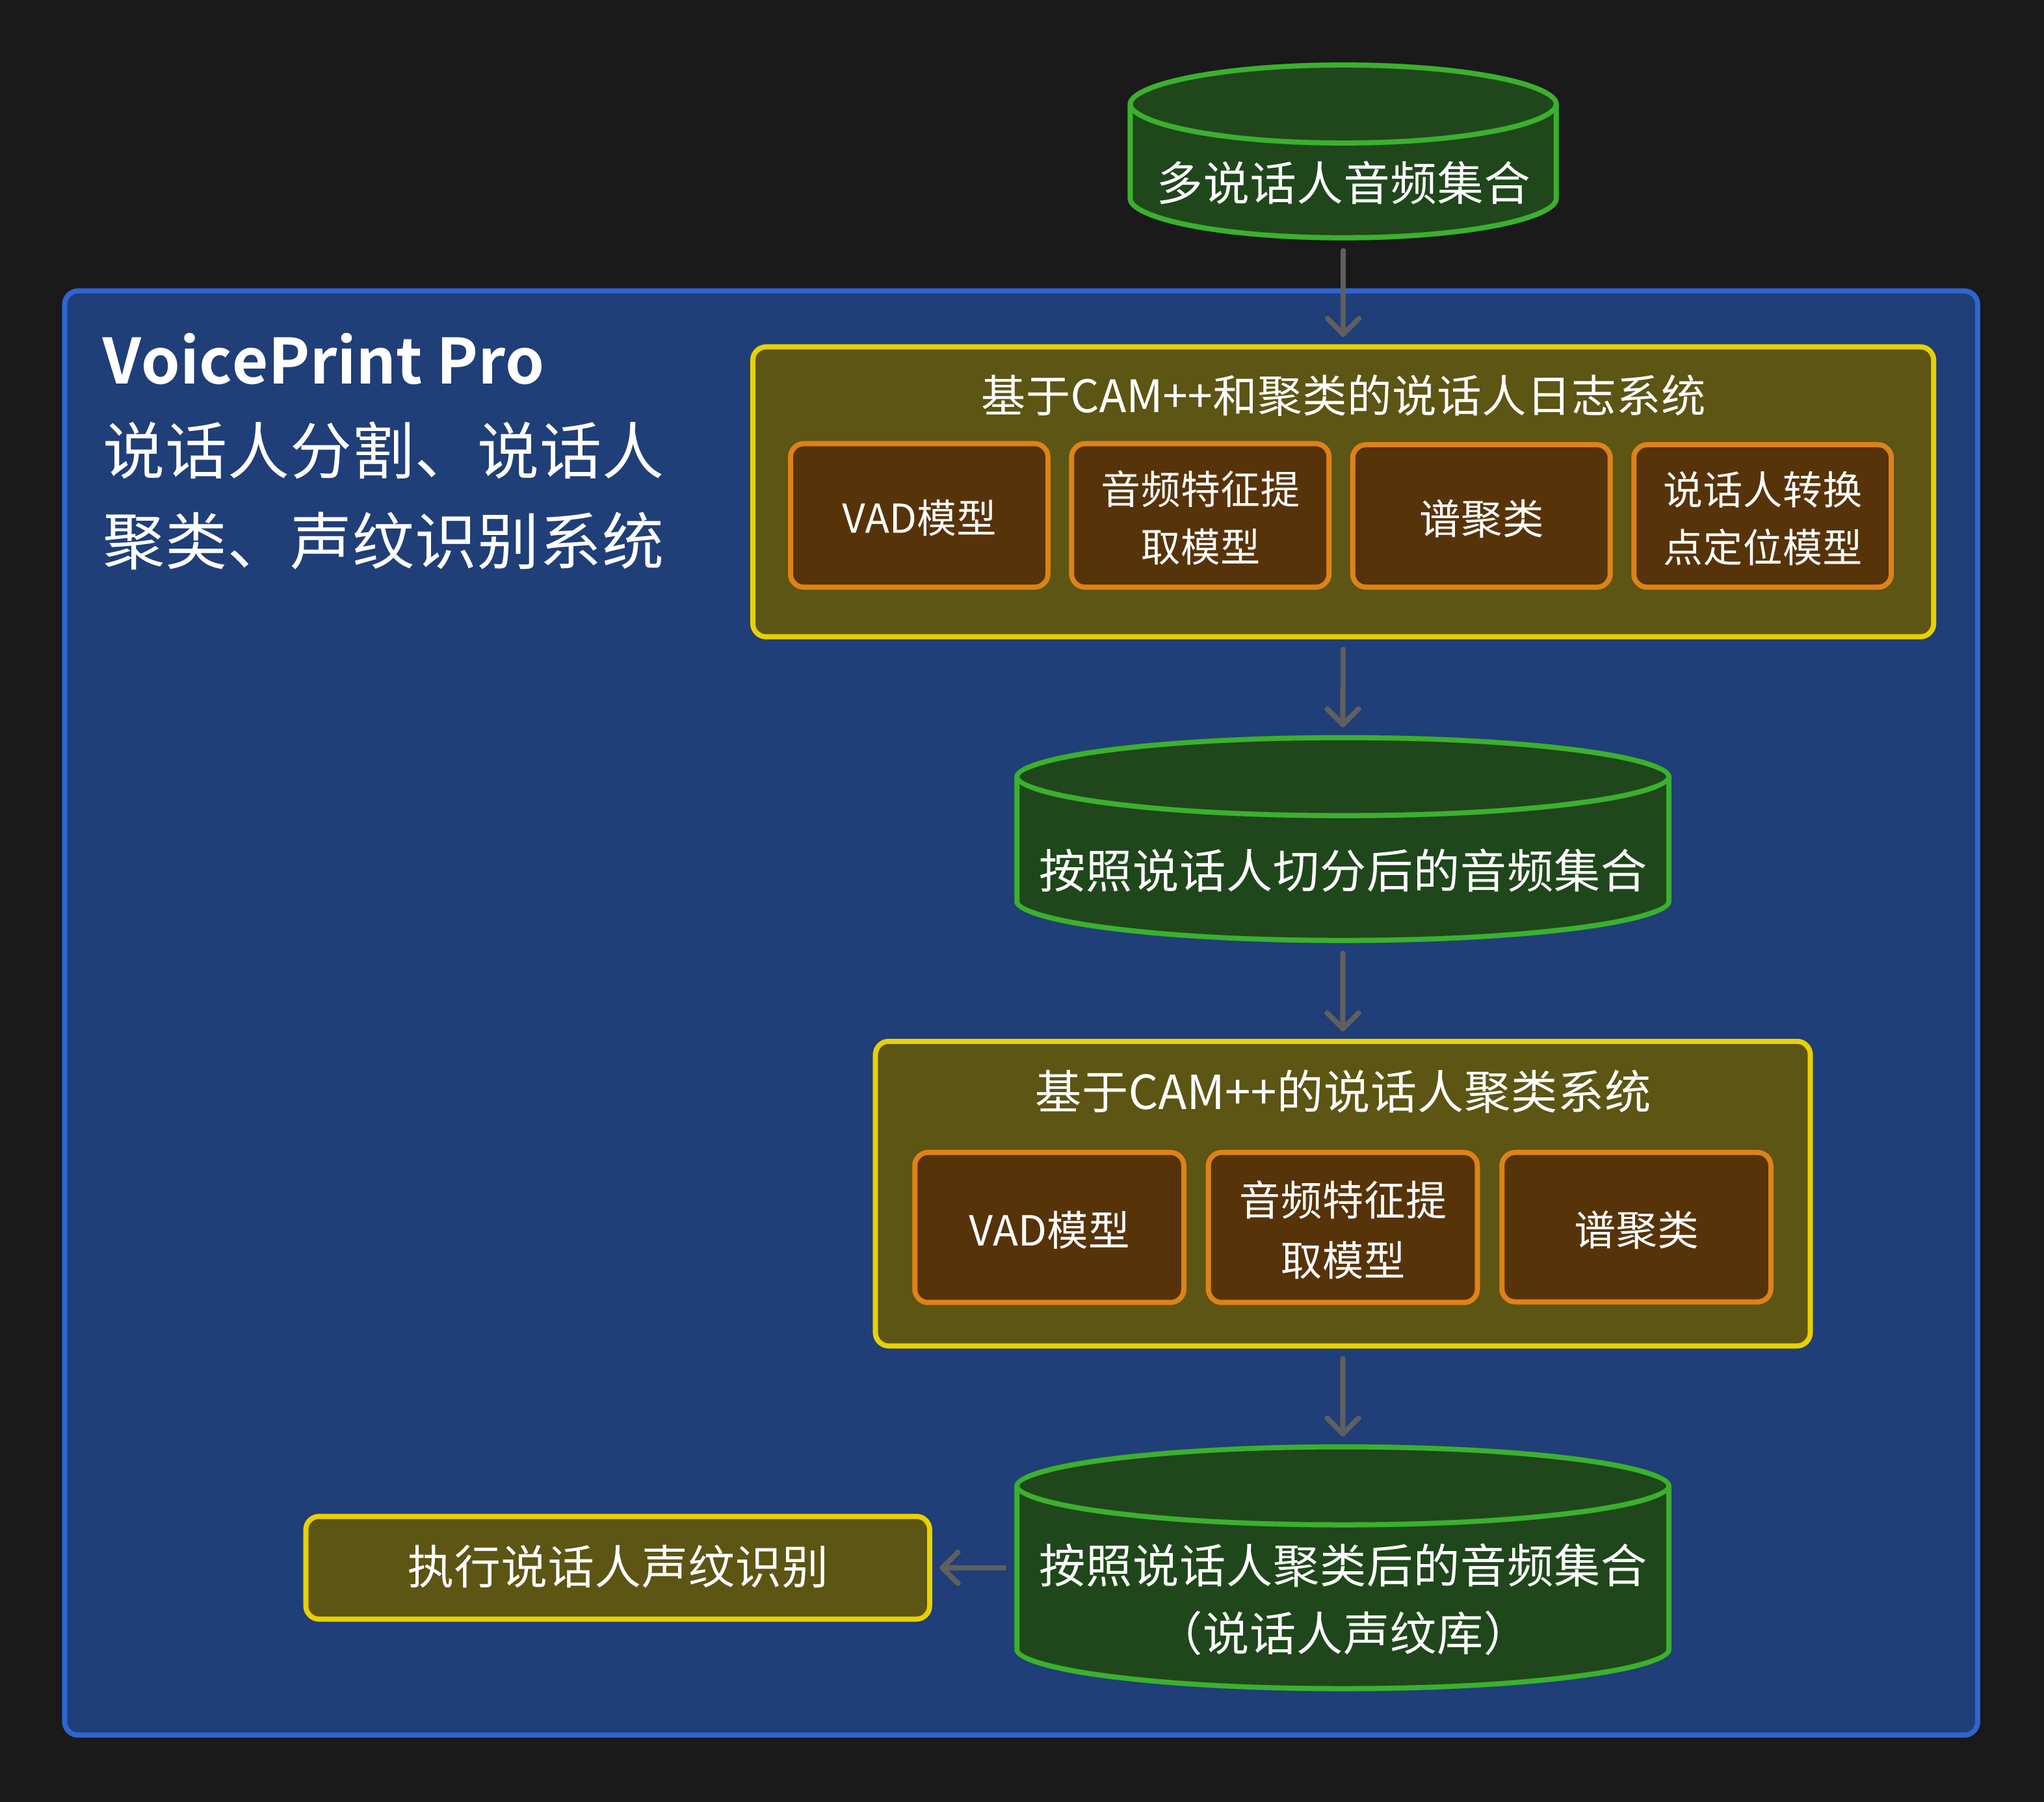
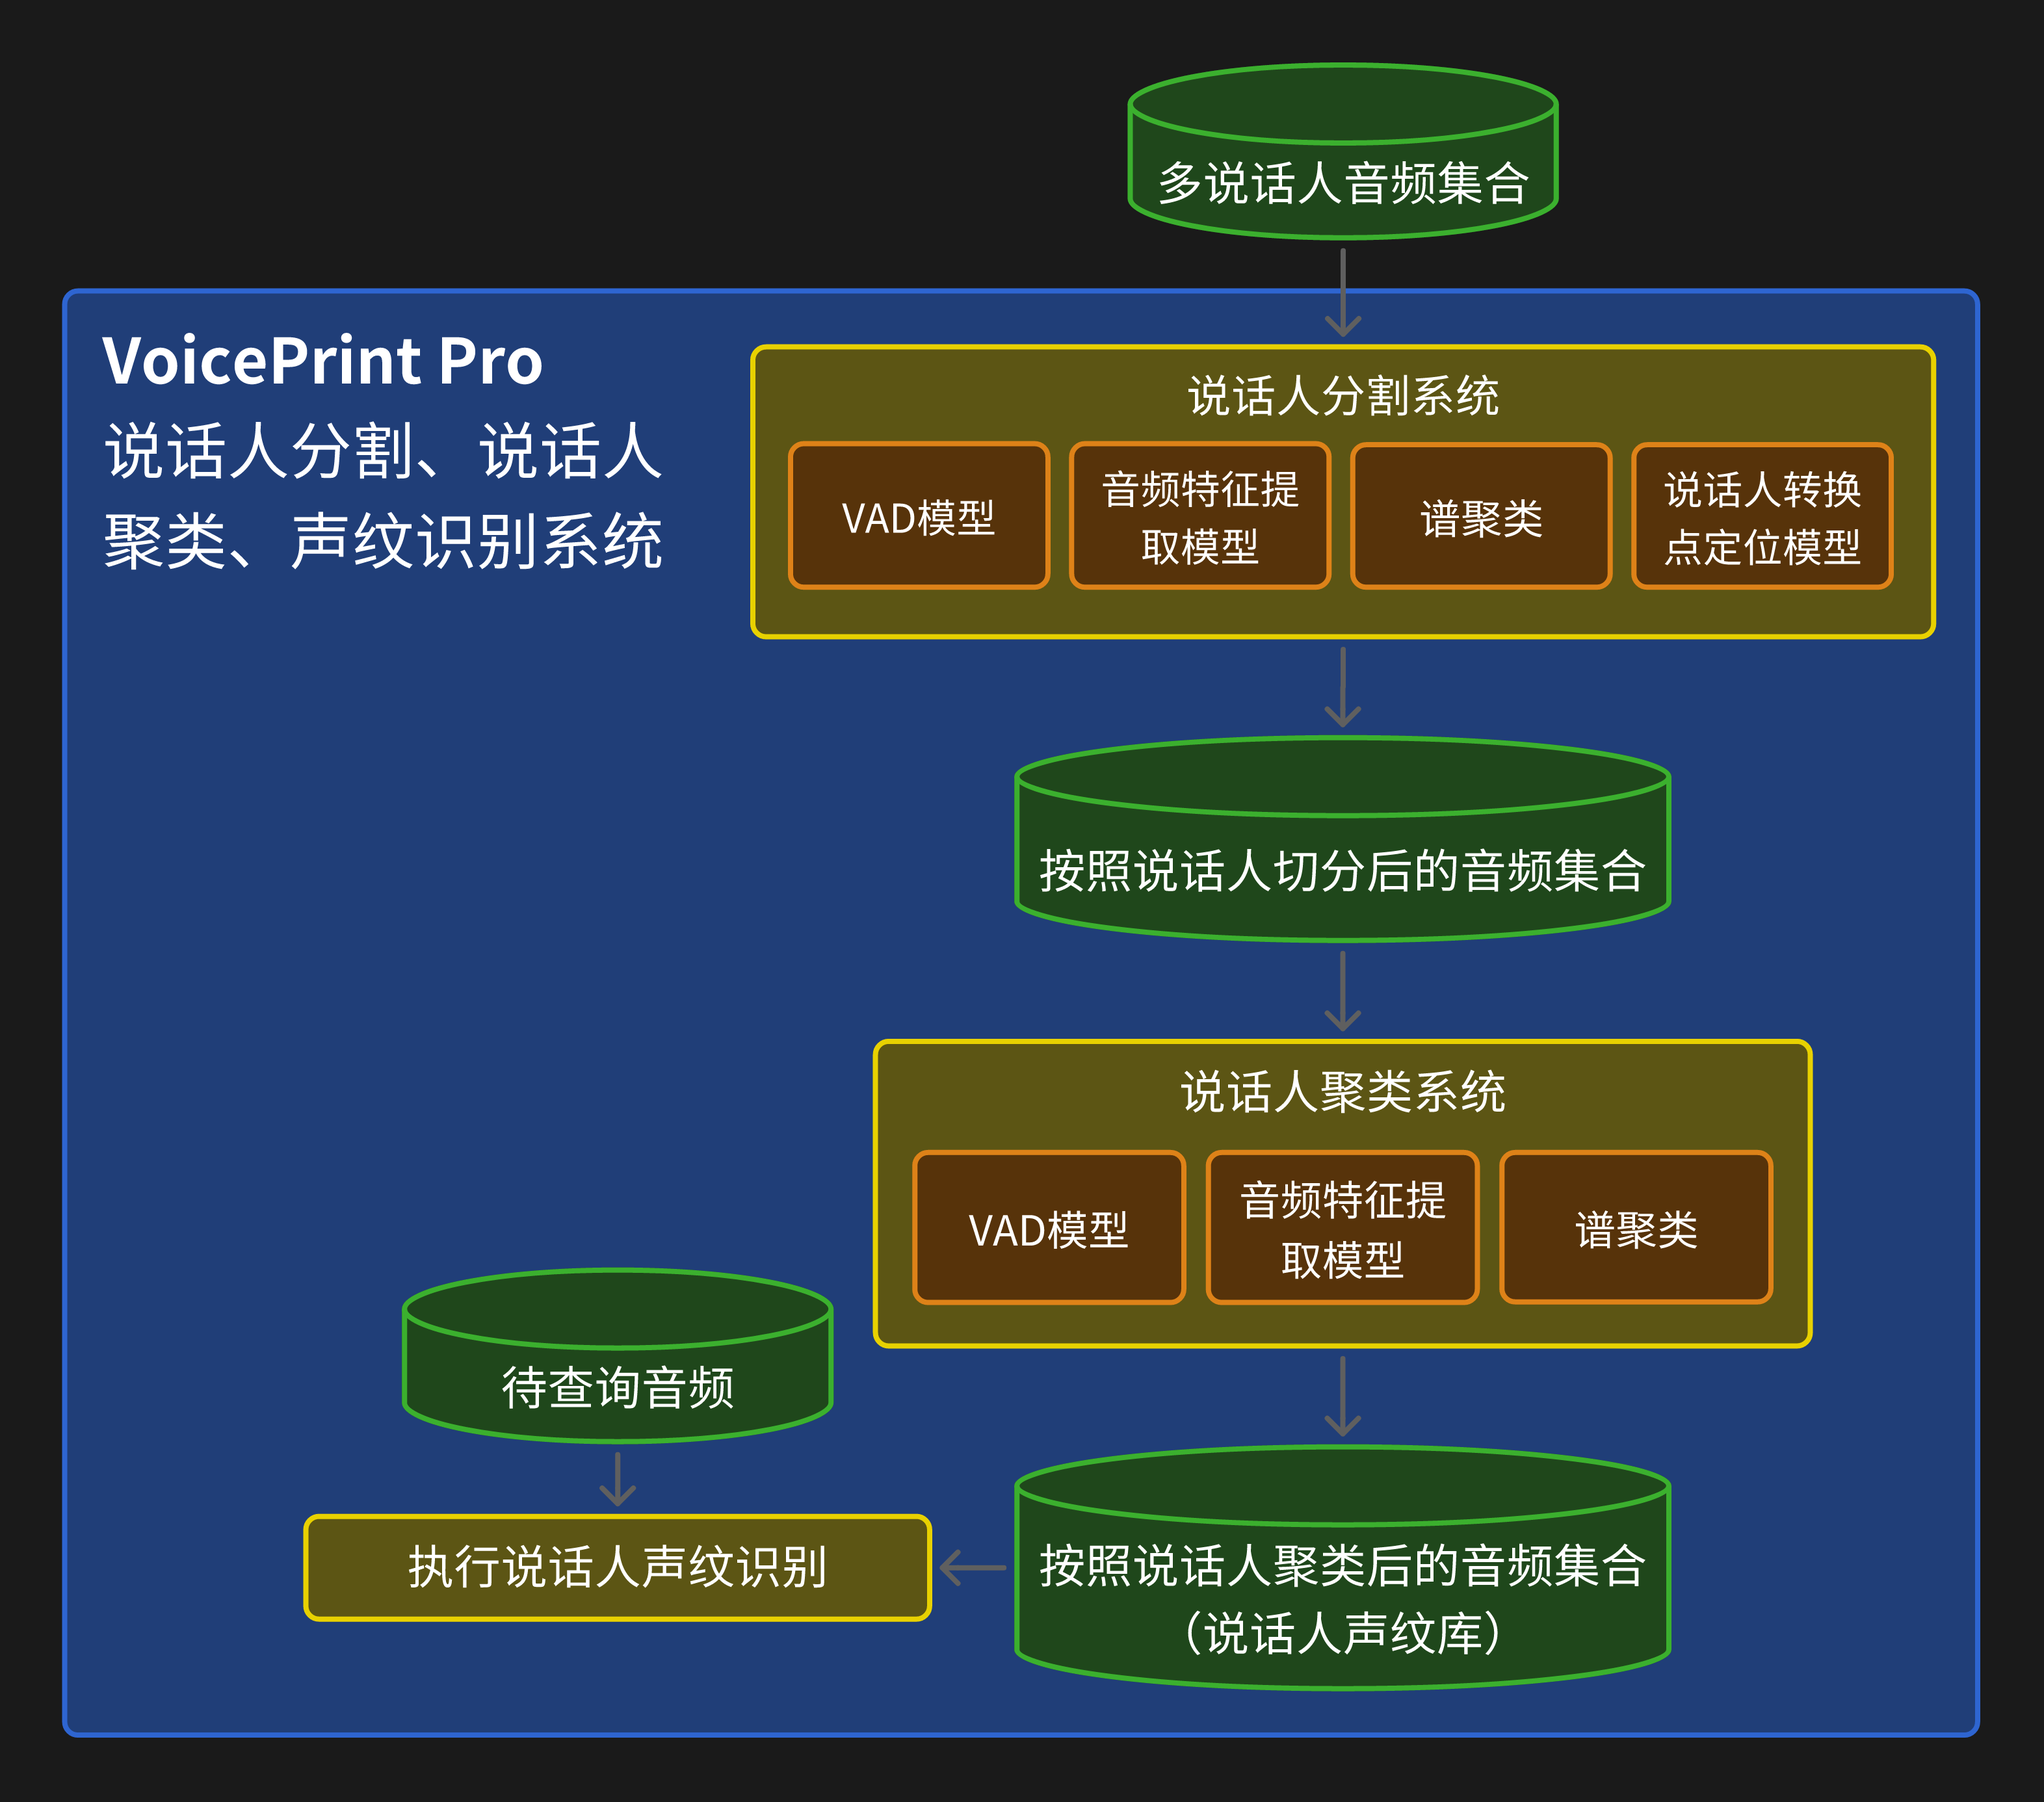
beta v1.0 - modify README.md - add model framework and technical details explanation

Changed region(s): [[0.187, 0.6825, 0.4052, 0.8377], [0.4676, 0.1861, 0.8416, 0.2482], [0.4987, 0.5895, 0.8104, 0.6205]]

diff --git a/README.md b/README.md
@@ -339,5 +339,7 @@ python ${SCRIPT_DIR}/local/audio_diarization.py --input_dir "$audio_dir" --works
 ## work in progress
 
 1. 使用更大规模的数据集开展全面的评估，包括说话人分割准确率，聚类效果等指标的评估。
-2. 开发语音转文字模块
-3. 重设模型接口及
+2. 开发语音转文字模块。
+3. 开发说话人声纹识别模块。
+4. 优化模型输入输出接口。
+
